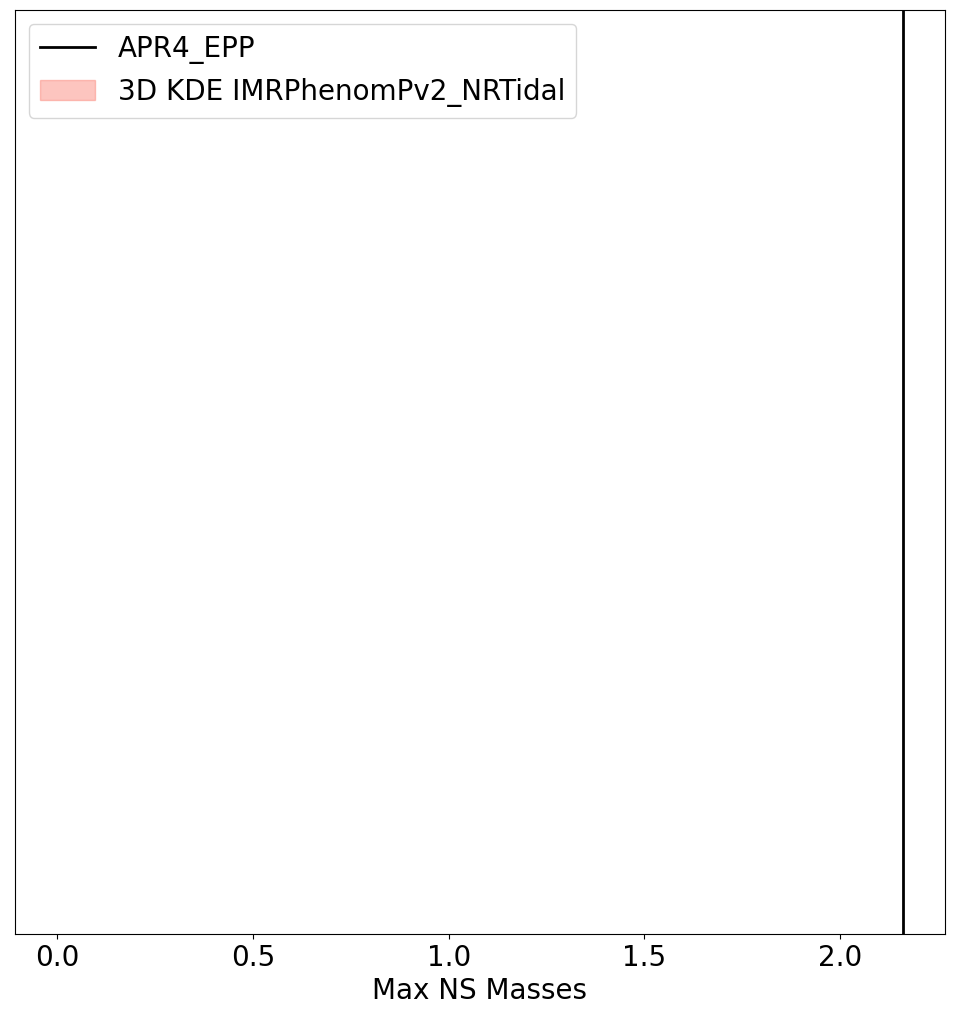
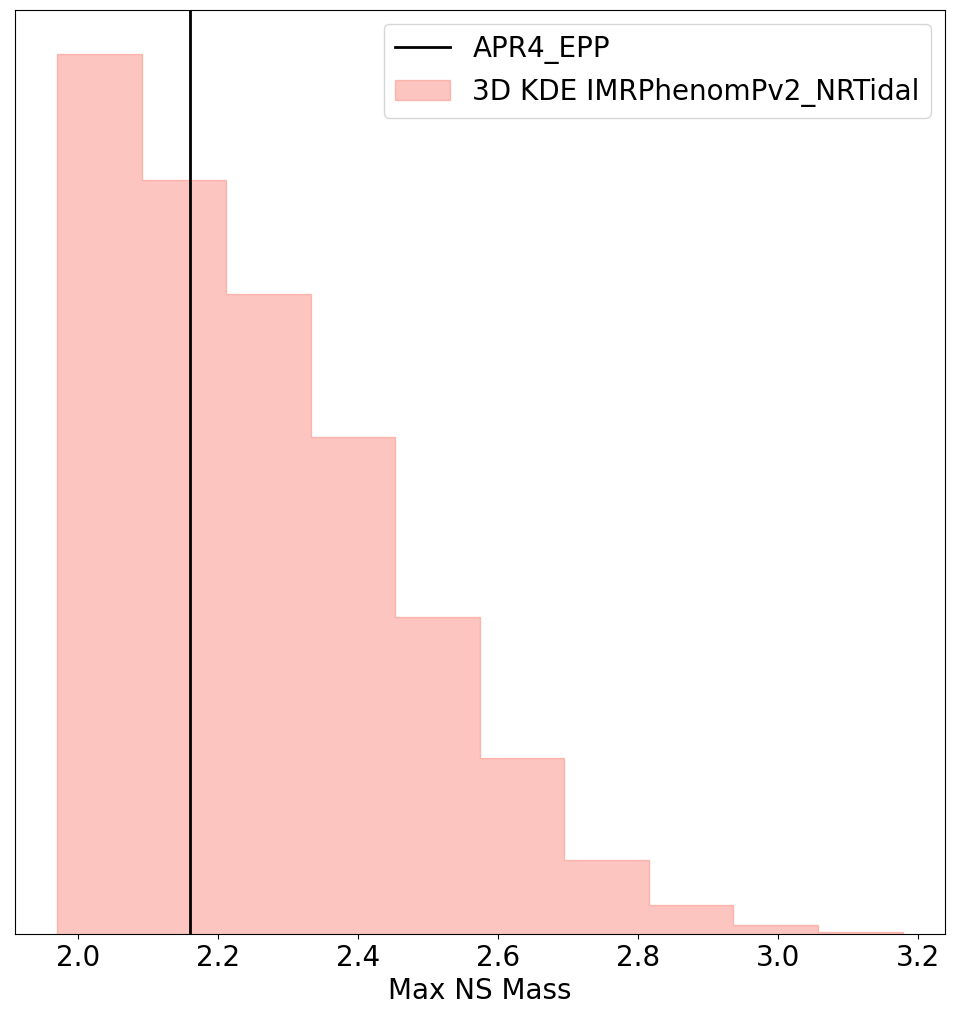
2nd attempt at a max mass constraint histogram!

diff --git a/year3/lastStretch/maxMassHist.py b/year3/lastStretch/maxMassHist.py
@@ -26,6 +26,7 @@ def calcMaxMass_parametrized():
             eos = lalsim.SimNeutronStarEOS4ParameterSpectralDecomposition(g0, g1, g2, g3)
             fam = lalsim.CreateSimNeutronStarFamily(eos)
             maxMass = lalsim.SimNeutronStarMaximumMass(fam)/lal.MSUN_SI
+            maxMasses.append(maxMass)
 
         #np.savetxt("data/BNS/massHists/{}_GW170817inference_MaxMasses_10000samp.txt".format(labels[ii]),np.array(maxMasses).T)
         #np.savetxt("data/BNS/massHists/{}_16simulationsInference_MaxMasses_10000samp.txt".format(labels[ii]),np.array(maxMasses).T)
@@ -78,7 +79,7 @@ def plotMaxMass_parametrized(eosname="APR4_EPP"):
 
     plt.axvline(x=eosMaxMass, label=eosname, color="black")
 
-    plt.xlabel("Max NS Masses",fontsize=20)
+    plt.xlabel("Max NS Mass",fontsize=20)
     plt.yticks([])
     plt.legend()
     #plt.savefig("plots/BNS/massHists/GW170817_MaxMasses1_10000samp.png", bbox_inches='tight')
